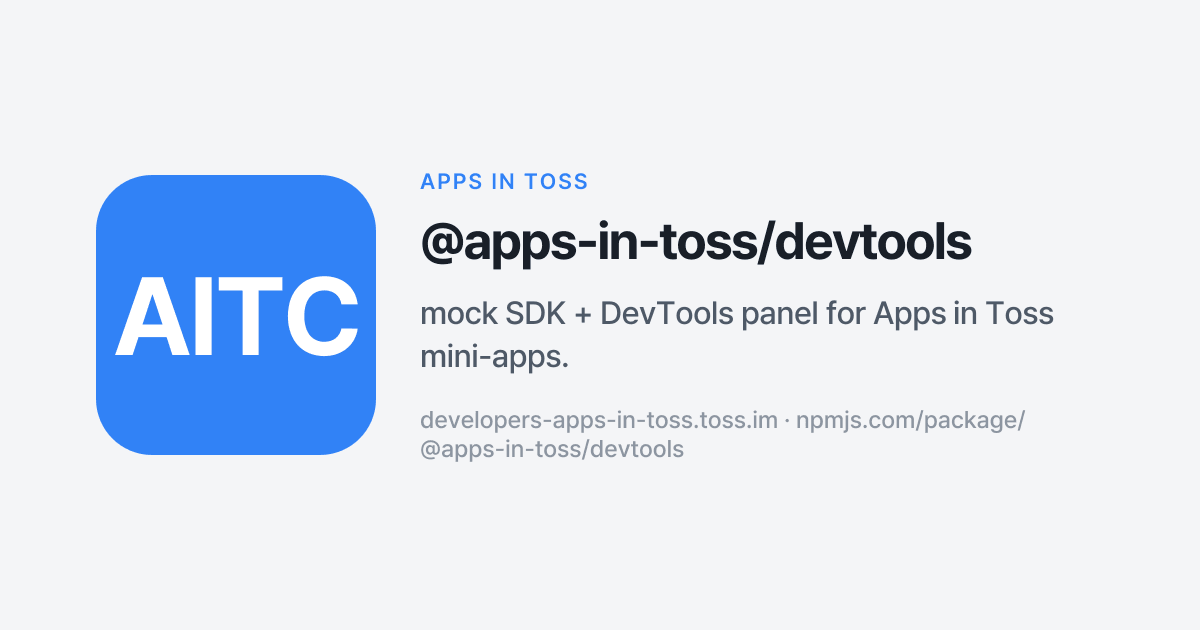
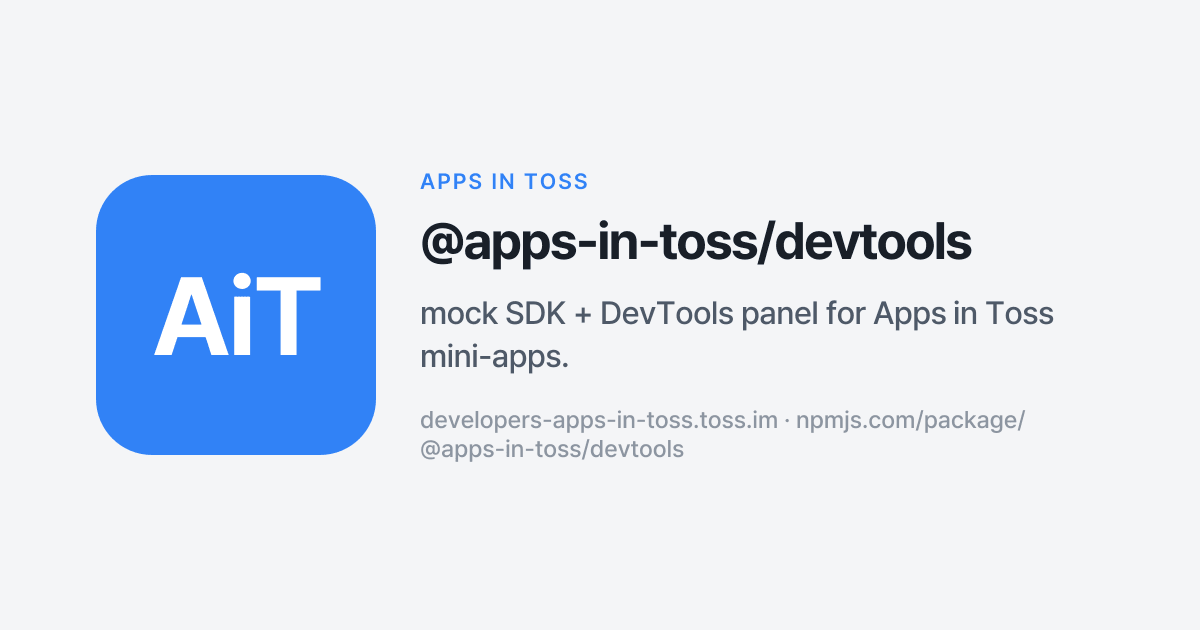
fix(devtools): launcher PWA·OG·환경 2 명칭에서 커뮤니티 브랜드 AITC 제거
launcher PWA 앱 이름을 "AITC DevTools Launcher"/"AITC Launcher"에서
"Apps in Toss DevTools Launcher"/"AiT Launcher"로 바꾼다 — GitHub Pages로
실기기에 배포되는 홈 화면 아이콘 라벨이 커뮤니티 org 약칭을 노출하고 있었다.
OG 이미지 워드마크(AITC → AiT)도 같은 이유로 교체하고 build:og로 재생성했다.

환경 2를 가리키던 "AITC Sandbox App (PWA)"/"AITC Sandbox PWA" 표기는
"Sandbox App (PWA)"/"Sandbox PWA"로 통일한다 — 설계 개념(fidelity 사다리
3겹)은 그대로 두고 커뮤니티 약칭만 뗀다.

Changed region(s): [[0.0925, 0.4222, 0.3083, 0.573]]

diff --git a/packages/devtools/src/test-runner/cli.ts b/packages/devtools/src/test-runner/cli.ts
@@ -35,7 +35,7 @@ OPTIONS
   --scheme-url <url>      intoss-private:// URL from \`ait deploy --scheme-only\`
                           (required for standalone relay attach / env3). Unused
                           and ignored when --attach-launcher is set.
-  --attach-launcher       Attach over the env-2 AITC Sandbox PWA launcher
+  --attach-launcher       Attach over the env-2 Sandbox PWA launcher
                           (real-device WebKit) instead of the env-3 intoss
                           scheme deep-link. The relay/QR/dashboard/attach-wait
                           are identical; only the QR is a launcher deep-link.
@@ -159,7 +159,7 @@ EXAMPLE (env 3 — intoss-private scheme)
     --report-dir .ait-report \\
     --timeout 60000
 
-EXAMPLE (env 2 — AITC Sandbox PWA launcher)
+EXAMPLE (env 2 — Sandbox PWA launcher)
   devtools-test 'src/**/*.ait.test.ts' \\
     --attach-launcher \\
     --app-url "https://<subdomain>.trycloudflare.com" \\
@@ -637,7 +637,7 @@ export async function main(argv: string[] = process.argv.slice(2)): Promise<void
     process.stderr.write(
       `devtools-test: --scheme-url is required for standalone relay attach.\n` +
         `  Pass the intoss-private:// URL from \`ait deploy --scheme-only\`.\n` +
-        `  (For env 2 / AITC Sandbox PWA, use --attach-launcher --app-url <tunnel-url> instead.)\n`,
+        `  (For env 2 / Sandbox PWA, use --attach-launcher --app-url <tunnel-url> instead.)\n`,
     );
     process.exitCode = 1;
     return;

diff --git a/packages/devtools/src/i18n/en.ts b/packages/devtools/src/i18n/en.ts
@@ -235,7 +235,7 @@ export const en: Record<StringKey, string> = {
   'attach.url.section': 'URL (fallback)',
 
   // qr-http-server — attach page mode label (environment visibility, #468)
-  'attach.mode.sandbox': 'env 2 — AITC Sandbox App (PWA)',
+  'attach.mode.sandbox': 'env 2 — Sandbox App (PWA)',
   'attach.mode.intossDev': 'env 3 — intoss-private relay dev',
 
   // attach page — sandbox family (env 2: launcher PWA; no Toss app / _deploymentId concepts)
@@ -277,7 +277,7 @@ export const en: Record<StringKey, string> = {
   'attach.intoss.faq.totp':
     '<strong>TOTP gate Layer C is inactive</strong> — check that <code>AIT_DEBUG_TOTP_SECRET</code> is set on the relay server',
   // Launcher PWA
-  'launcher.title': 'AITC DevTools Launcher',
+  'launcher.title': 'Apps in Toss DevTools Launcher',
   'launcher.description': 'Scan the terminal QR code or paste the tunnel URL.',
   'launcher.installCta': 'Install launcher to your phone',
   'launcher.urlPlaceholder': 'https://example.trycloudflare.com',

diff --git a/packages/devtools/src/i18n/ko.ts b/packages/devtools/src/i18n/ko.ts
@@ -238,7 +238,7 @@ export const ko = {
   'attach.url.section': 'URL (fallback)',
 
   // qr-http-server — attach page mode 라벨 (환경 가시화, #468)
-  'attach.mode.sandbox': '환경 2 — AITC Sandbox App (PWA)',
+  'attach.mode.sandbox': '환경 2 — Sandbox App (PWA)',
   'attach.mode.intossDev': '환경 3 — intoss-private relay dev',
 
   // attach page — sandbox family (환경 2: launcher PWA, 토스 앱·_deploymentId 개념 없음)
@@ -279,7 +279,7 @@ export const ko = {
   'attach.intoss.faq.totp':
     '<strong>TOTP gate Layer C가 비활성인 경우</strong> — relay 서버에 <code>AIT_DEBUG_TOTP_SECRET</code>이 설정돼 있는지 확인',
   // Launcher PWA
-  'launcher.title': 'AITC DevTools Launcher',
+  'launcher.title': 'Apps in Toss DevTools Launcher',
   'launcher.description': '터미널 QR을 스캔하거나 URL을 입력하세요.',
   'launcher.installCta': '폰에 런처 설치하기',
   'launcher.urlPlaceholder': 'https://example.trycloudflare.com',

diff --git a/packages/devtools/src/mcp/__tests__/qr-http-server.test.ts b/packages/devtools/src/mcp/__tests__/qr-http-server.test.ts
@@ -1337,7 +1337,7 @@ describe('startQrHttpServer — /attach mode-aware chrome 분기 (#468)', () => 
     expect(html).toContain('Safari 탭으로 열립니다');
     expect(html).toContain('devtools.aitc.dev/launcher/');
     // 환경 라벨
-    expect(html).toContain('환경 2 — AITC Sandbox App (PWA)');
+    expect(html).toContain('환경 2 — Sandbox App (PWA)');
     // 토큰 잔존 없음
     expect(html).not.toContain('__MODE_LABEL__');
     expect(html).not.toContain('__LIVE_FAQ__');
@@ -1348,7 +1348,7 @@ describe('startQrHttpServer — /attach mode-aware chrome 분기 (#468)', () => 
     expect(html).not.toContain('Toss');
     expect(html).not.toContain('_deploymentId');
     expect(html).toContain('Scan QR with camera');
-    expect(html).toContain('env 2 — AITC Sandbox App (PWA)');
+    expect(html).toContain('env 2 — Sandbox App (PWA)');
     expect(html).not.toContain('__MODE_LABEL__');
     expect(html).not.toContain('__LIVE_FAQ__');
   });

diff --git a/packages/devtools/src/test-runner/relay-factory.ts b/packages/devtools/src/test-runner/relay-factory.ts
@@ -59,7 +59,7 @@ export interface RelayConnectionFactoryOptions {
    */
   schemeUrl: string;
   /**
-   * env-2 (AITC Sandbox PWA) attach mode (devtools#774). When `true`, `open()`
+   * env-2 (Sandbox PWA) attach mode (devtools#774). When `true`, `open()`
    * builds the attach URL as a **launcher deep-link**
    * (`buildLauncherAttachUrl(appUrl, wssUrl, totp)` — the same env-2 path the
    * MCP daemon takes via `prepareAttach(deps, 'relay-mobile', …)`, issue #378)
@@ -168,7 +168,7 @@ export interface RelayConnectionFactoryOptions {
 
 /**
  * Builds a {@link RelayConnectionFactory} that opens a standalone relay
- * connection for env 3 (intoss-private scheme, default) or env 2 (AITC Sandbox
+ * connection for env 3 (intoss-private scheme, default) or env 2 (Sandbox
  * PWA launcher deep-link, when `opts.attachLauncher` is set — devtools#774).
  *
  * `open()` performs the full attach lifecycle and BLOCKS while a human scans

diff --git a/packages/devtools/src/mock/safe-area-bridge.ts b/packages/devtools/src/mock/safe-area-bridge.ts
@@ -1,7 +1,7 @@
 /**
  * env-2 postMessage bridges (#484, #510).
  *
- * In the AITC Sandbox PWA (env 2) the dev app runs inside the launcher's
+ * In the Sandbox PWA (env 2) the dev app runs inside the launcher's
  * full-viewport `<iframe>`. The launcher is the top-level document, so its
  * `env(safe-area-inset-*)` measurement is the ground truth for the real device
  * geometry. The framed page's mock would otherwise report a synthetic preset
@@ -172,7 +172,7 @@ export const ENV2_COMPENSATION_CSS = 'body { margin-top: calc(-1 * env(safe-area
  *
  * ### Why this is needed
  *
- * In env 2 (AITC Sandbox PWA) the launcher frames the mini-app in a
+ * In env 2 (Sandbox PWA) the launcher frames the mini-app in a
  * full-bleed `<iframe>` whose top edge is already positioned BELOW the
  * launcher's partner bar (at `env(safe-area-inset-top) + 54px`). However,
  * inside the cross-origin child iframe, CSS `env(safe-area-inset-top)` STILL

diff --git a/packages/devtools/e2e/fixture/launcher/navbar.ts b/packages/devtools/e2e/fixture/launcher/navbar.ts
@@ -3,7 +3,7 @@
 // heavy top-level imports (same pattern as entry.ts / letterbox.ts). Launcher.tsx
 // reads the live query string + viewport from the DOM and feeds them in.
 //
-// Background: environment 2 (AITC Sandbox PWA) frames an ephemeral tunnel URL in
+// Background: environment 2 (Sandbox PWA) frames an ephemeral tunnel URL in
 // a full-viewport iframe. Before #495 the framed app was full-bleed under the OS
 // status bar, with no emulation of the real toss mini-app host chrome. This
 // module models that host chrome so the launcher's own shell reproduces the two

diff --git a/packages/devtools/src/mcp/devtools-opener.ts b/packages/devtools/src/mcp/devtools-opener.ts
@@ -43,7 +43,7 @@
  *
  * PWA (WebKit) caveat:
  *   The Chii relay injects a chobitsu CDP shim into WebKit-based runtimes (env 2
- *   AITC Sandbox PWA). The DevTools frontend will connect and most panels work.
+ *   Sandbox PWA). The DevTools frontend will connect and most panels work.
  *   However, WebKit does not expose the full CDP domain set that V8/Blink does,
  *   so some panels (Network, Layers) may appear empty or show limited data.
  *   This is a WebKit runtime constraint, not a relay or devtools-opener issue.

diff --git a/packages/devtools/src/mcp/relay-url-store.ts b/packages/devtools/src/mcp/relay-url-store.ts
@@ -1,7 +1,7 @@
 /**
  * Project-local ephemeral URL store (#424).
  *
- * Environment-2 ("AITC Sandbox PWA") cold-start requires two ephemeral URLs:
+ * Environment-2 ("Sandbox PWA") cold-start requires two ephemeral URLs:
  *   - `relayBaseUrl` — the CDP relay's https base (was `AIT_RELAY_BASE_URL`)
  *   - `tunnelBaseUrl` — the app's https tunnel base (was `AIT_TUNNEL_BASE_URL`)
  *

diff --git a/packages/devtools/e2e/fixture/launcher/index.html b/packages/devtools/e2e/fixture/launcher/index.html
@@ -29,7 +29,7 @@
     <meta name="theme-color" content="#0b0d10" />
     <link rel="manifest" href="./manifest.webmanifest" />
     <link rel="apple-touch-icon" href="./icon-192.png" />
-    <title>AITC DevTools Launcher</title>
+    <title>Apps in Toss DevTools Launcher</title>
     <style>
       :root { color-scheme: dark; }
       * { box-sizing: border-box; }

diff --git a/packages/devtools/e2e/fixture/public/launcher/sw.js b/packages/devtools/e2e/fixture/public/launcher/sw.js
@@ -1,4 +1,4 @@
-// Minimal passthrough service worker for the AITC DevTools Launcher PWA.
+// Minimal passthrough service worker for the Apps in Toss DevTools Launcher PWA.
 // Its only job is to satisfy the installability criteria (manifest + SW + HTTPS)
 // on Android Chrome — it does no caching, since the framed content is a live,
 // ephemeral dev tunnel.

diff --git a/packages/devtools/e2e/fixture/launcher/Launcher.tsx b/packages/devtools/e2e/fixture/launcher/Launcher.tsx
@@ -1,4 +1,4 @@
-// AITC DevTools Launcher — client-side React component.
+// Apps in Toss DevTools Launcher — client-side React component.
 //
 // This file holds the full UI of the launcher PWA. The stable shell
 // (devtools.aitc.dev/launcher/) is installed once; it keeps the chromeless
